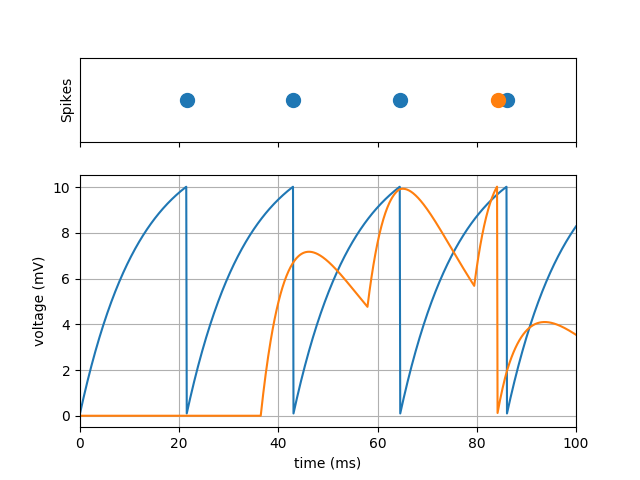
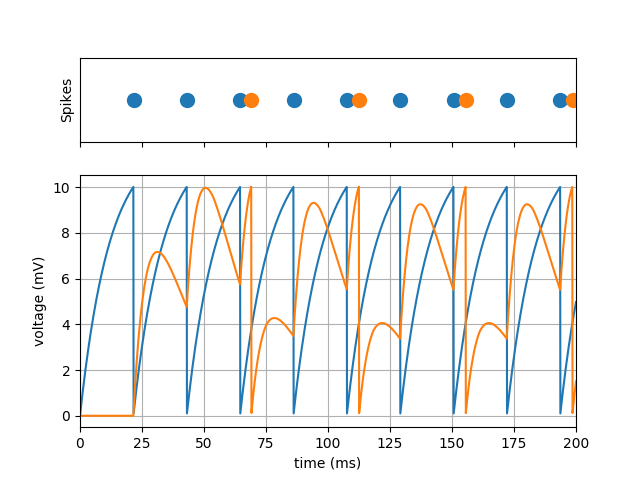
well take the lot!!!

diff --git a/lib/synapse.py b/lib/synapse.py
@@ -3,18 +3,30 @@ import math
 import simulation
 import neuron
 
+
 class Synapse():
-    def __init__(self, sim: simulation.Simulation, pre: 'neuron.LIF',
+    def __init__(self, sim: simulation.Simulation, pre: 'neuron.LIF', post: 'neuron.LIF',
                  tau_s: float, delay_MS: float, current_floor: float, weight: float = 1):
-        self.simulation = sim
+        self.simulation = sim.register_synapse(self)
         self.pre = pre
+        self.post = post
         self.weight = weight
         self.tau_s = tau_s
         self.delay = delay_MS
         self.current_floor = current_floor
 
+        self.stdp_weight_max = 1
+        self.stdp_weight_min = 0.1
+        self.stdp_a_minus = 0.3
+        self.stdp_a_plus = 0.6
+        self.stdp_tau_plus = 8
+        self.stdp_tau_minus = 2 #5
+        self.stdp_ltp_time = 2
+        self.stdp_ltd_time = -1
+
     def get_decayed_output(self, t_index):
-        """Given the last `len(last_spikes)` spikes, what's the output current from the neuron.
+        """
+        Given the last `len(last_spikes)` spikes, what's the output current from the neuron.
 
         Arguments:
             t_index {int} -- The relative time-index of the output
@@ -22,10 +34,36 @@ class Synapse():
         Returns:
             float -- The ouput current
         """
+        if t_index != self.pre.t_curr_idx:
+            # tick pre if it's not at the right tickidx
+            self.pre.getv_m(t_index)
         out = 0.0
         for s_tidx in self.pre.last_spikes:
             t_decay = (t_index - s_tidx) * self.simulation.d_t - self.delay
             if t_decay < 0 or t_decay > 4*self.tau_s:
                 continue
             out += self.current_floor * math.exp(-t_decay/self.tau_s)
-        return out
+        return out*self.weight
+
+    def weight_adjust(self):
+        w_delta = 0
+        for tf_post_idx in self.post.last_spikes:
+            for tf_pre_idx in self.pre.last_spikes:
+                delta_t = (tf_post_idx-tf_pre_idx) * \
+                    self.simulation.d_t - self.delay
+                stdp = self.stdp(delta_t)
+                if stdp > 0:
+                    # Times learning rate if I choose to have one
+                    w_delta += stdp * (self.stdp_weight_max - self.weight)
+                else:
+                    # Same as above
+                    w_delta += stdp * (self.weight - self.stdp_weight_min)
+        self.weight = max(self.stdp_weight_min, min(
+            self.stdp_weight_max, self.weight+w_delta)) # Clamp the weight
+
+    def stdp(self, delta_t):
+        if delta_t <= self.stdp_ltd_time:
+            return self.stdp_a_minus * math.exp(delta_t/self.stdp_tau_minus)
+        if delta_t >= self.stdp_ltp_time:
+            return self.stdp_a_plus * math.exp(delta_t/self.stdp_tau_plus)
+        return 0

diff --git a/scripts/stdp_test.py b/scripts/stdp_test.py
@@ -1,0 +1,52 @@
+import matplotlib.pyplot as plt
+
+from neuron import noise_wrapper
+from simulation import Simulation
+from neuron_group import NeuronGroup
+from synapse_group import SynapseGroup
+
+fig, (ax1, ax2) = plt.subplots(2, sharex=True,
+                               gridspec_kw={'height_ratios': [1, 3]})
+
+SIM = Simulation(200, 1000)
+NG1 = NeuronGroup(SIM, num_neurons=100, v_rest=noise_wrapper(0, 1, 0, 2), v_max=noise_wrapper(10, 1, 10, 8),
+                  r=lambda: 6, c=lambda: 2, input_current_min=noise_wrapper(2, 1, 0, 3), starting_vm=noise_wrapper(5, 5, 0, 10))
+NG2 = NeuronGroup(SIM, num_neurons=100, v_rest=lambda: 0, v_max=lambda: 10,
+                  r=lambda: 6, c=lambda: 3, input_current_min=lambda: 0)
+NG3 = NeuronGroup(SIM, num_neurons=10, v_rest=lambda: 0, v_max=lambda: 10,
+                  r=lambda: 6, c=lambda: 2, input_current_min=lambda: 0)
+# Be Careful using noise wrapper!
+# If you want certain things to be the same between runs,
+# remember to reset the seed
+SYG = SynapseGroup(SIM, pre=NG1, post=NG2, tau_s=lambda: 8, delay_MS=lambda: 5,
+                   current_floor=lambda: 5, weight=noise_wrapper(0.5, 0.5, 0, 1), probTotal=200)
+SYG2 = SynapseGroup(SIM, pre=NG2, post=NG3, tau_s=lambda: 8, delay_MS=lambda: 2,
+                    current_floor=lambda: 5, weight=noise_wrapper(0.5, 0.5, 0, 1), probTotal=20)
+
+SIM.run_simulation()
+
+# print(len(SYG.synapses))
+
+for idx, n in enumerate(NG2.neurons):
+    if len(n.inputs) > 0:
+        print(n.v_arr)
+        ax1.plot(SIM.t_arr, n.s_arr, marker='.',
+                 markersize=20, linestyle='none')
+        ax1.plot(SIM.t_arr, n.inputs[0].pre.s_arr,
+                 marker='.', markersize=20, linestyle='none')
+        ax1.set(ylabel='Spikes')
+        ax1.axis([0, SIM.t_max, 0.5, 1.5])
+        ax1.set_yticklabels([])
+        ax1.set_yticks([])
+
+        ax2.plot(SIM.t_arr, n.v_arr)
+        ax2.plot(SIM.t_arr, n.inputs[0].pre.v_arr)
+        ax2.set(xlabel='time (ms)', ylabel='voltage (mV)')
+        ax2.grid()
+        break
+    # print(idx)
+    # print(n.t_curr_idx)
+        # print(n.input_current(99))
+        # print(n.getv_m(100))
+
+plt.show()

diff --git a/lib/neuron.py b/lib/neuron.py
@@ -7,13 +7,15 @@ import synapse
 import simulation
 
 
-def noisy_input(mean_current: float, sigma_noise: float):
-    return np.random.normal(mean_current, sigma_noise)
+def noise_wrapper(mean_current: float, sigma_noise: float,
+                  floor: float = np.NINF, ceil: float = np.Inf) -> Callable[[], float]:
+    return lambda: max(floor, min(ceil, np.random.normal(mean_current, sigma_noise)))
+
 
 class LIF():
     def __init__(self, sim: simulation.Simulation, v_rest: float, v_max: float, r: float, c: float,
-                 input_current_min: Callable[[], float], input_synapses: List['synapse.Synapse']):
-        self.simulation = sim
+                 input_current_min: Callable[[], float], input_synapses: List['synapse.Synapse'], starting_vm: float = None):
+        self.simulation = sim.register_neuron(self)
         self.v_rest = v_rest
         self.v_max = v_max
         self.tau = r*c
@@ -24,7 +26,9 @@ class LIF():
 
         # Initial spike time and v_m values
         self.last_spikes: MutableSequence = deque(maxlen=2)
-        self.v_m = v_rest
+        self.v_m = max(v_rest, min(v_max,
+                                   (starting_vm if starting_vm else v_rest)
+                                   ))
 
         # Array of input LIFs
         self.inputs = input_synapses
@@ -55,8 +59,9 @@ class LIF():
                 self.v_m = self.v_rest
                 self.last_spikes.append(t_index)
                 self.s_arr[t_index] = 1     # Can be optional: if recording
-            self.v_m = self.v_m + self.simulation.d_t * \
-                self.dv_dt(t_index, self.v_m)
+            self.v_m = self.v_m + \
+                (self.simulation.d_t * self.dv_dt(t_index, self.v_m))
             self.v_arr[t_index] = self.v_m  # Can be optional: if recording
             return self.v_m
-        raise ValueError("too large a jump: {}!".format(t_index-self.t_curr_idx))
+        raise ValueError("too large a jump: {}!".format(
+            t_index-self.t_curr_idx))

diff --git a/scripts/group_test.py b/scripts/group_test.py
@@ -1,0 +1,47 @@
+import matplotlib.pyplot as plt
+
+from neuron import noise_wrapper
+from simulation import Simulation
+from neuron_group import NeuronGroup
+from synapse_group import SynapseGroup
+
+fig, (ax1, ax2) = plt.subplots(2, sharex=True,
+                               gridspec_kw={'height_ratios': [1, 3]})
+
+SIM = Simulation(100, 1000)
+NG1 = NeuronGroup(SIM, num_neurons=100, v_rest=noise_wrapper(0, 1, 0, 2), v_max=noise_wrapper(10, 1, 10, 8),
+                  r=lambda: 6, c=lambda: 2, input_current_min=noise_wrapper(2, 2), starting_vm=noise_wrapper(5, 5, 0, 10))
+NG2 = NeuronGroup(SIM, num_neurons=100, v_rest=lambda: 0, v_max=lambda: 10,
+                  r=lambda: 6, c=lambda: 2, input_current_min=lambda: 0)
+# Be Careful using noise wrapper!
+# If you want certain things to be the same between runs,
+# remember to reset the seed
+SYG = SynapseGroup(SIM, pre=NG1, post=NG2, tau_s=lambda: 8, delay_MS=lambda: 5,
+                   current_floor=lambda: 5, weight=noise_wrapper(1, 0.25), probTotal=200)
+
+SIM.run_simulation()
+
+# print(len(SYG.synapses))
+
+for idx, n in enumerate(NG2.neurons):
+    if len(n.inputs) > 0:
+        print(n.v_arr)
+        ax1.plot(SIM.t_arr, n.s_arr, marker='.',
+                 markersize=20, linestyle='none')
+        ax1.plot(SIM.t_arr, n.inputs[0].pre.s_arr, marker='.', markersize=20, linestyle='none')
+        ax1.set(ylabel='Spikes')
+        ax1.axis([0, SIM.t_max, 0.5, 1.5])
+        ax1.set_yticklabels([])
+        ax1.set_yticks([])
+
+        ax2.plot(SIM.t_arr, n.v_arr)
+        ax2.plot(SIM.t_arr, n.inputs[0].pre.v_arr)
+        ax2.set(xlabel='time (ms)', ylabel='voltage (mV)')
+        ax2.grid()
+        break
+    # print(idx)
+    # print(n.t_curr_idx)
+        # print(n.input_current(99))
+        # print(n.getv_m(100))
+
+plt.show()

diff --git a/lib/simulation.py b/lib/simulation.py
@@ -1,8 +1,10 @@
 import numpy as np
+import neuron
+import synapse
 
 
 class Simulation():
-    def __init__(self, time_simulated_ms, time_iterations):
+    def __init__(self, time_simulated_ms: float, time_iterations: int):
         # Time stuff
         self.t_max = time_simulated_ms
         self.t_itmax = time_iterations
@@ -10,14 +12,23 @@ class Simulation():
         self.t_arr = np.linspace(0, self.t_max, self.t_itmax)
 
         # Neurons in this simulation
-        self.neuron_individuals = []
-        self.neuron_groups = []
+        self.neurons: 'neuron.LIF' = []
+        self.synapses: 'synapse.Synapse' = []
 
-    def register_neuron(self, neuron):
-        print("temp")
+    def register_neuron(self, neu: 'neuron.LIF'):
+        self.neurons.append(neu)
+        return self
 
-    def register_neuron_group(self, neuron_group):
-        print(self.t_max)
+    def register_synapse(self, syn: 'synapse.Synapse'):
+        self.synapses.append(syn)
+        return self
 
     def run_simulation(self):
-        print(self.t_max)
+        for i in range(self.t_itmax):
+            for neu in self.neurons:
+                neu.getv_m(i)
+            for syn in self.synapses:
+                syn.weight_adjust()
+            perc = (100*i)//self.t_itmax
+            if perc % 5 == 0:
+                print("\t{} percent complete".format(perc), end='\r')

diff --git a/lib/neuron_group.py b/lib/neuron_group.py
@@ -9,9 +9,9 @@ import synapse
 class NeuronGroup():
     def __init__(self, sim: simulation.Simulation, num_neurons: int, v_rest: Callable[[], float],
                  v_max: Callable[[], float], r: Callable[[], float], c: Callable[[], float],
-                 input_current_min: Callable[[], float]):
+                 input_current_min: Callable[[], float],  starting_vm: Callable[[], float] = None):
         self.neurons = [
-            neuron.LIF(sim, v_rest(), v_max(), r(), c(), input_current_min, [])
+            neuron.LIF(sim, v_rest(), v_max(), r(), c(), input_current_min, [], starting_vm() if starting_vm else v_rest())
             for i in range(num_neurons)
         ]
 

diff --git a/lib/synapse_group.py b/lib/synapse_group.py
@@ -19,11 +19,11 @@ class SynapseGroup():
 
         self.synapses: List[synapse.Synapse] = []
 
-        for pre_n in pre:
-            for post_n in post:
+        for pre_n in pre.neurons:
+            for post_n in post.neurons:
                 if np.random.uniform() < probConnection:
                     syn = synapse.Synapse(
-                        sim, pre_n, tau_s(), delay_MS(), current_floor(), weight())
+                        sim, pre_n, post_n, tau_s(), delay_MS(), current_floor(), weight())
                     self.synapses.append(syn)
                     post_n.inputs.append(syn)
     
